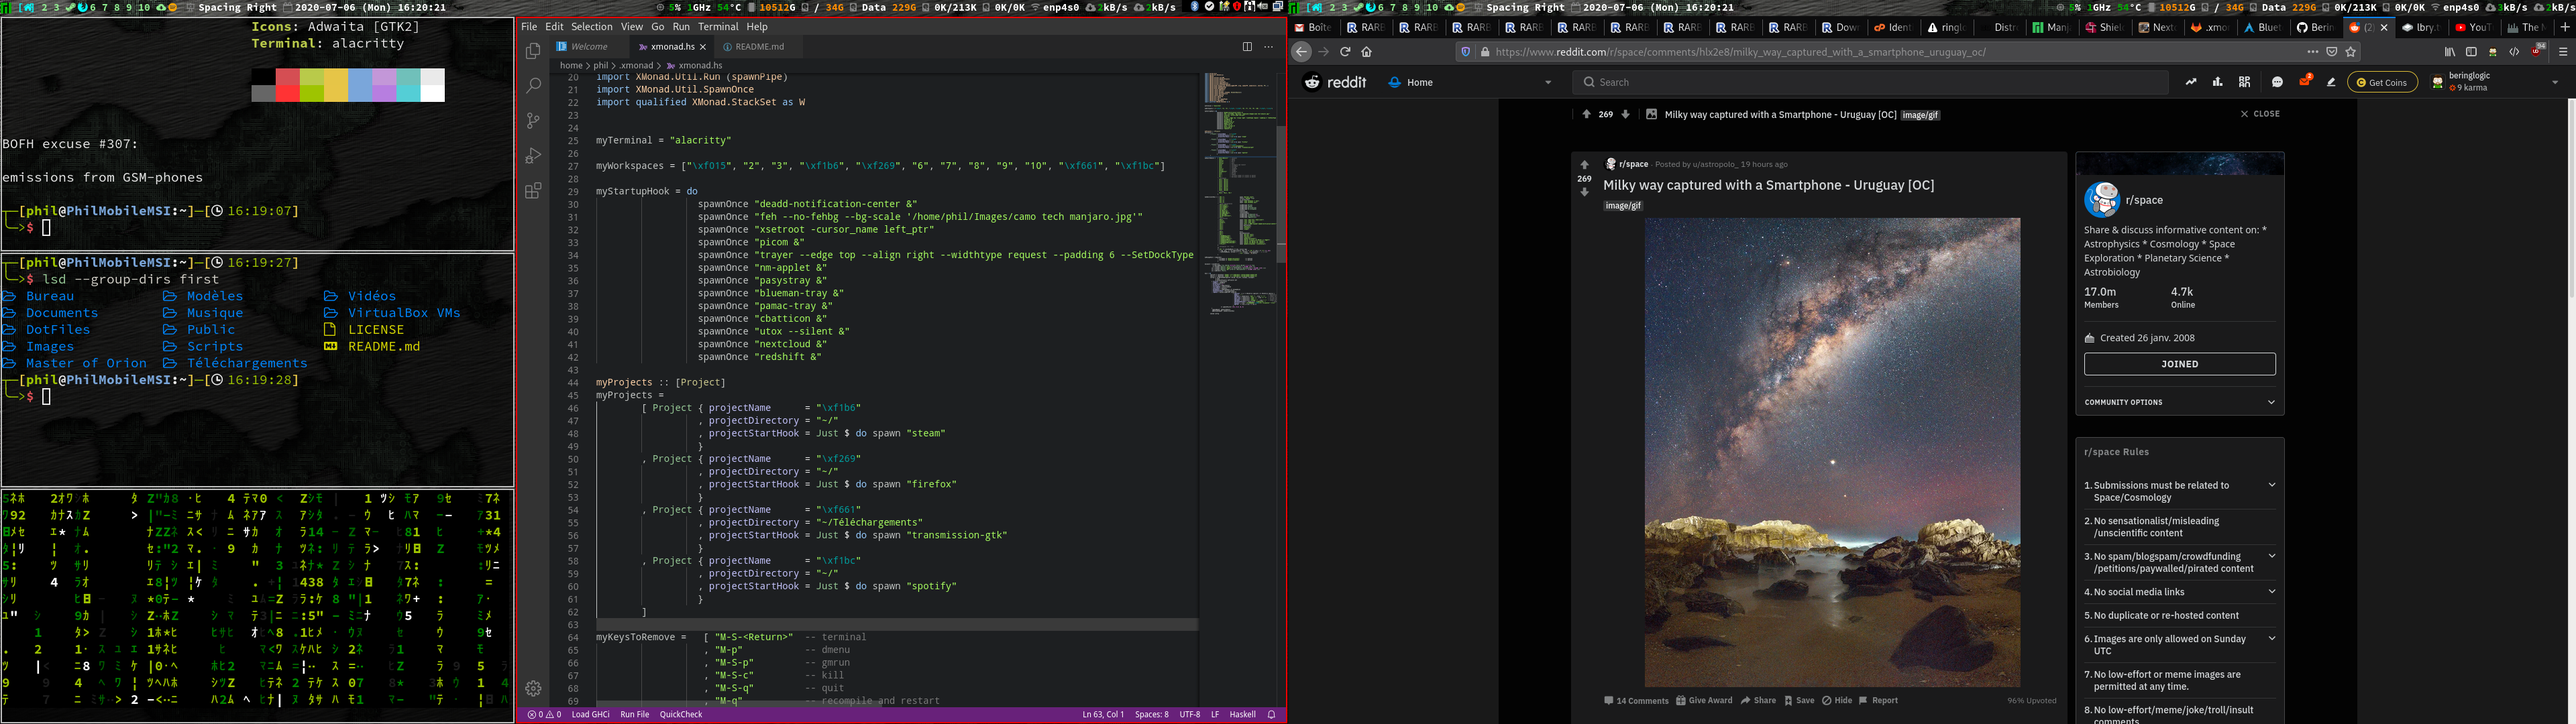
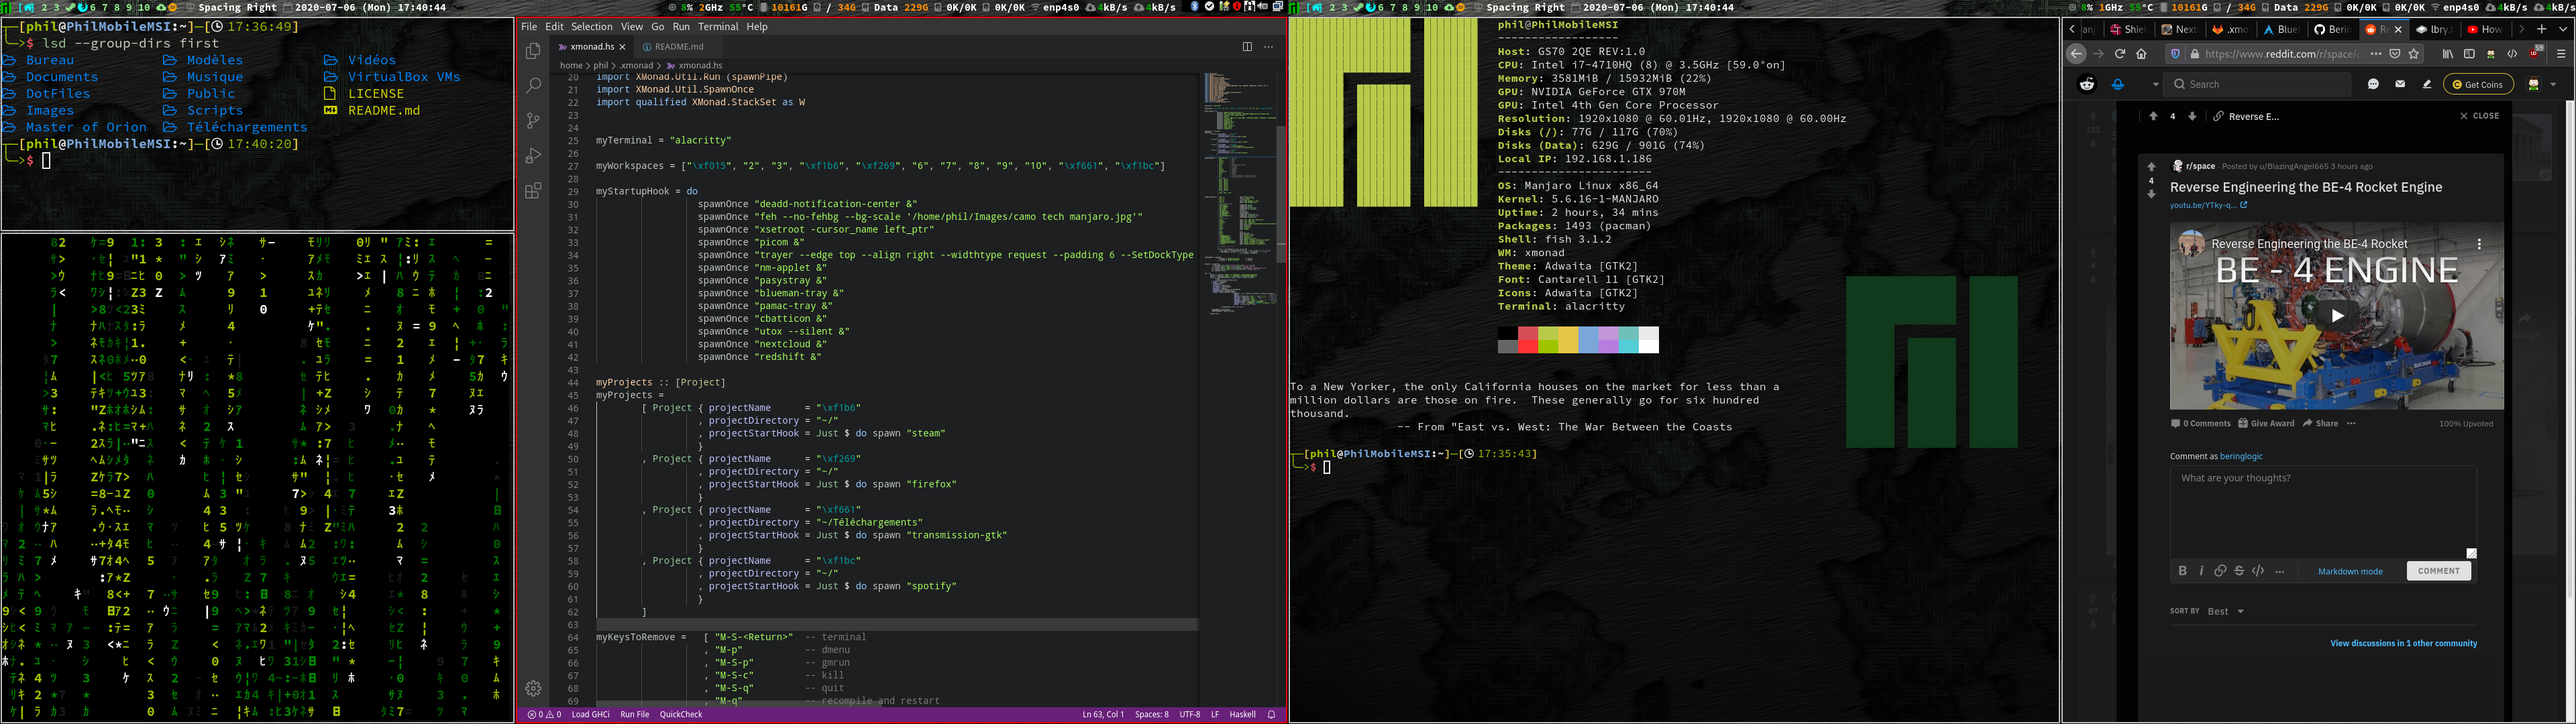
Updated screenshot and README.md

diff --git a/README.md b/README.md
@@ -8,29 +8,25 @@ This is a bare git repo for my dot files, just like DT explained here: https://y
 ![screenshot](Images/xmonad.png)
 
 ### Left screen:
-  - Reflected ResizableTall layout (renamed "Right" because the master window is on the right side)
-  - XMobar with transparent background and XBM icons
+  - Reflected ResizableTall layout (renamed "Right" because the main window is on the right side)
+  - XMobar with transparent background and Nerf Fonts icons
   - Trayer:
-    * pamac-tray
-    * cbatticon
     * nm-applet
     * pasystray
+    * utox
+    * pamac-tray
+    * cbatticon
+    * nextcloud
     * blueman-tray
   - My XMonad config in Visual Studio Code with the Atom Dark theme. Not Atom One Dark, Atom Dark.
-  - Fish shell in Alacritty terminal
+  - Fish shell in Alacritty terminal with Nerd Font icons
     * transparent background thanks to picom compositor
-    * neofetch
-    * fortune -a
-    * the config alias in action, as explained by DT (see above)
-  - Trayer readme.md in Firefox
+    * lsd
+    * tmatrix
   
 ### Right screen:
-  - ResizableTall layout
-  - Spotify
-  - pavucontrol
-  - fish with bluetoothctl connected to my Sony WF-XB700 earphones (I'm still figuring out how to deal with my bluetooth adapter. Looks like I've got to power cycle it after reboot I think)
-
-
-## Lots more to do!
-
-You can see in the screenshot that I've got lots more stuff to do before calling it done...
+  - ResizableTall layout (renamed left because the main window in on the left side)
+  - Reddit in Firefox
+  - Another Terminal
+    * neofetch
+    * fortune -a
